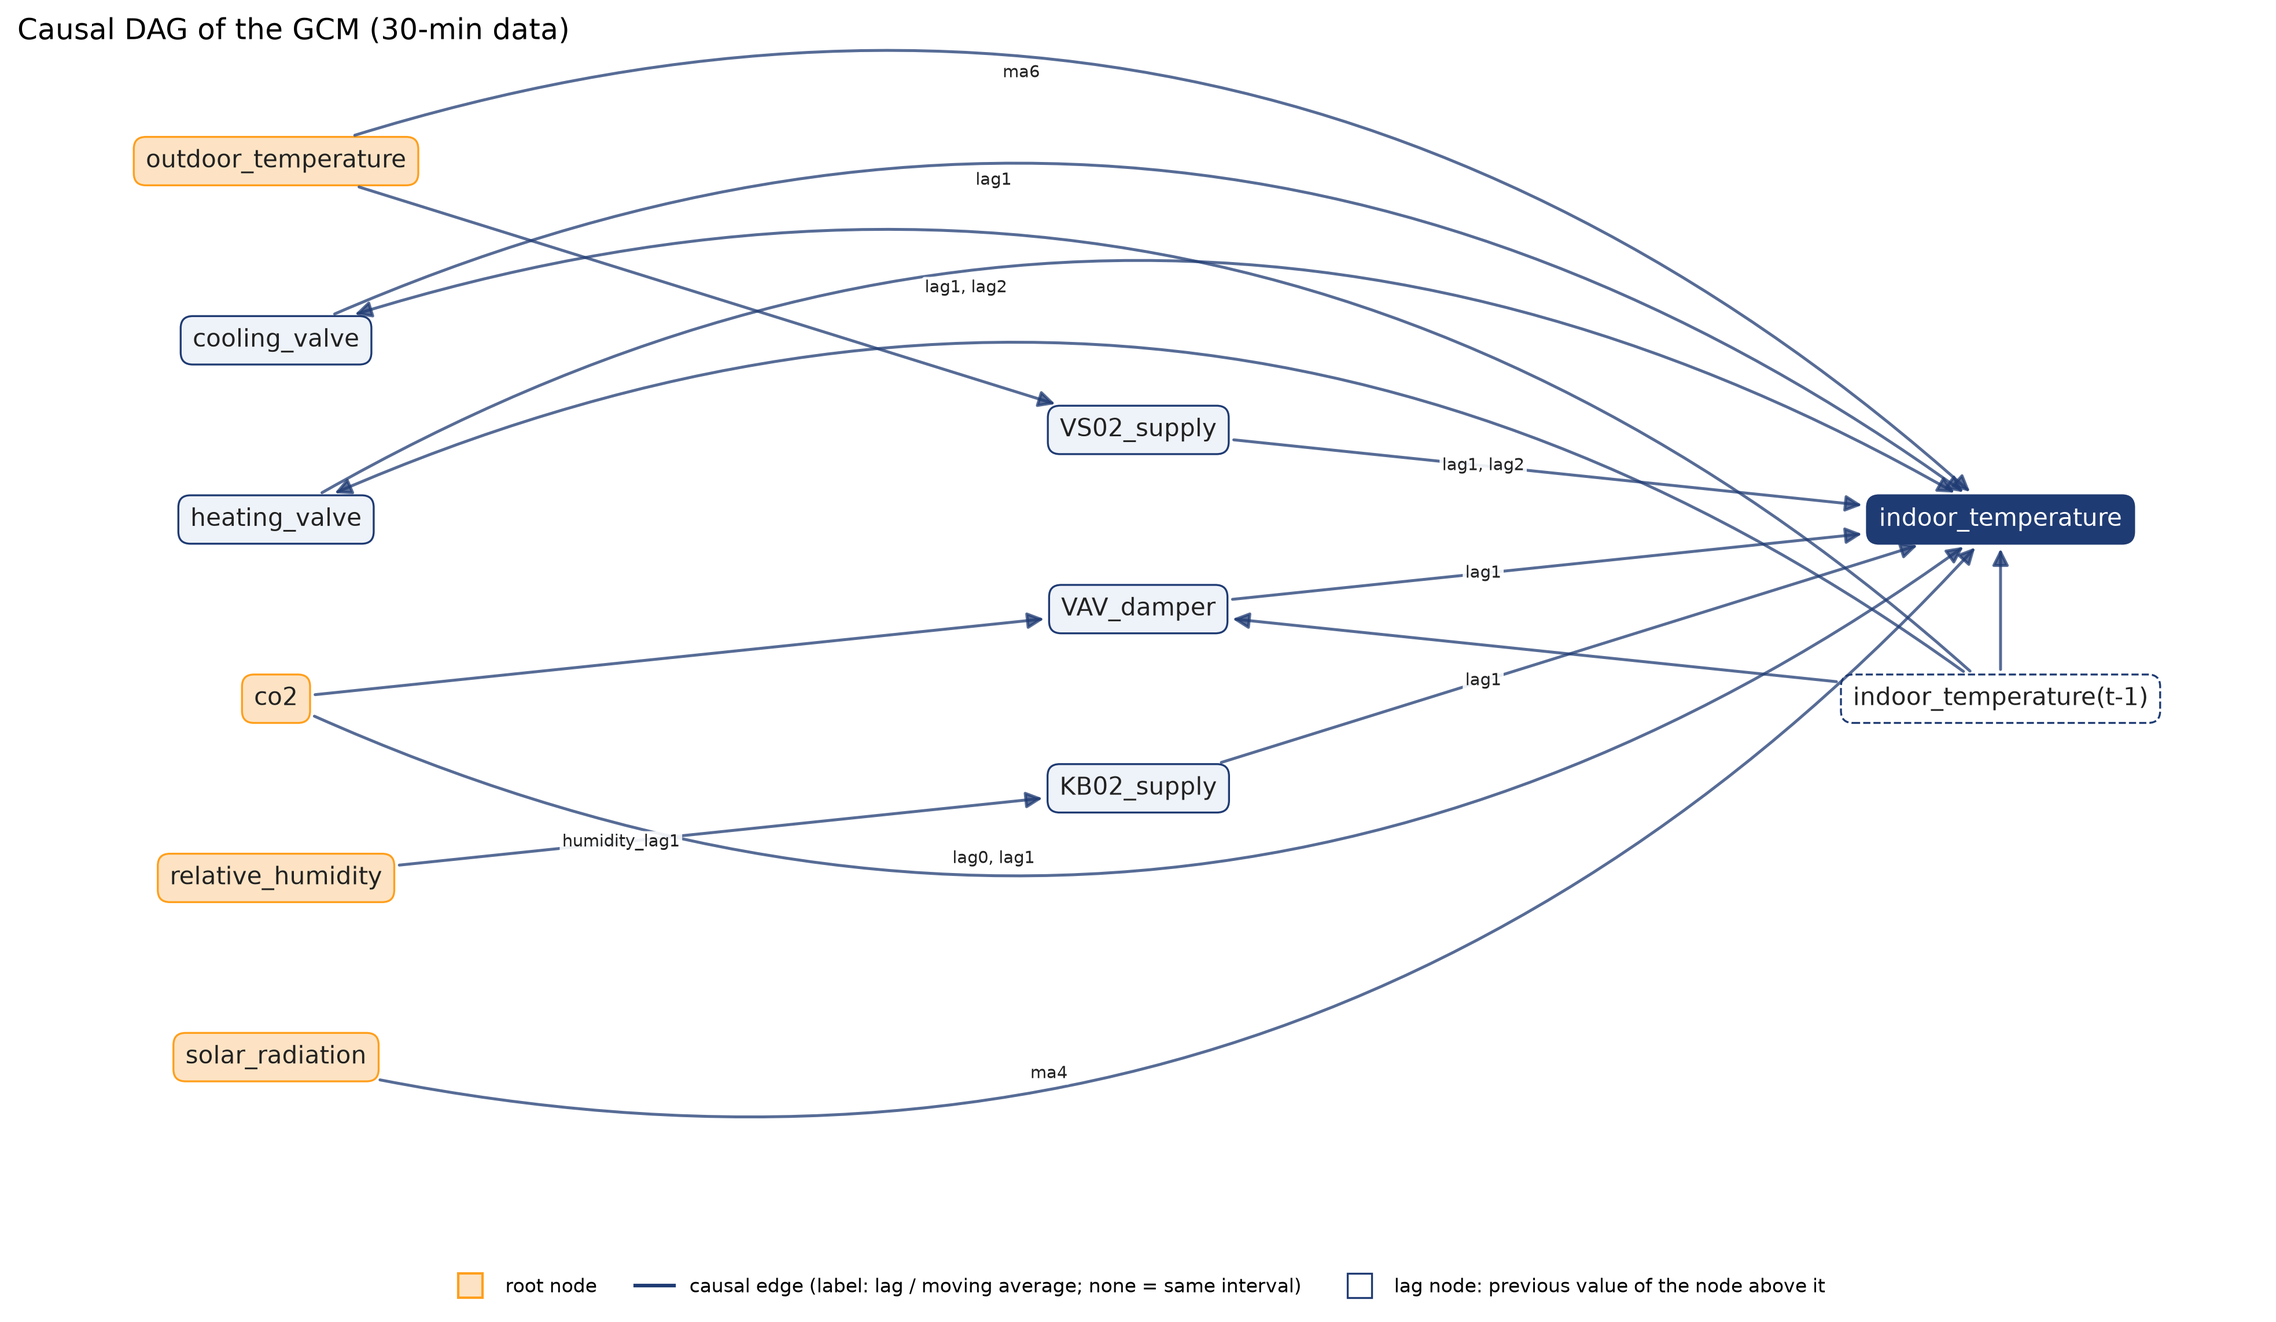
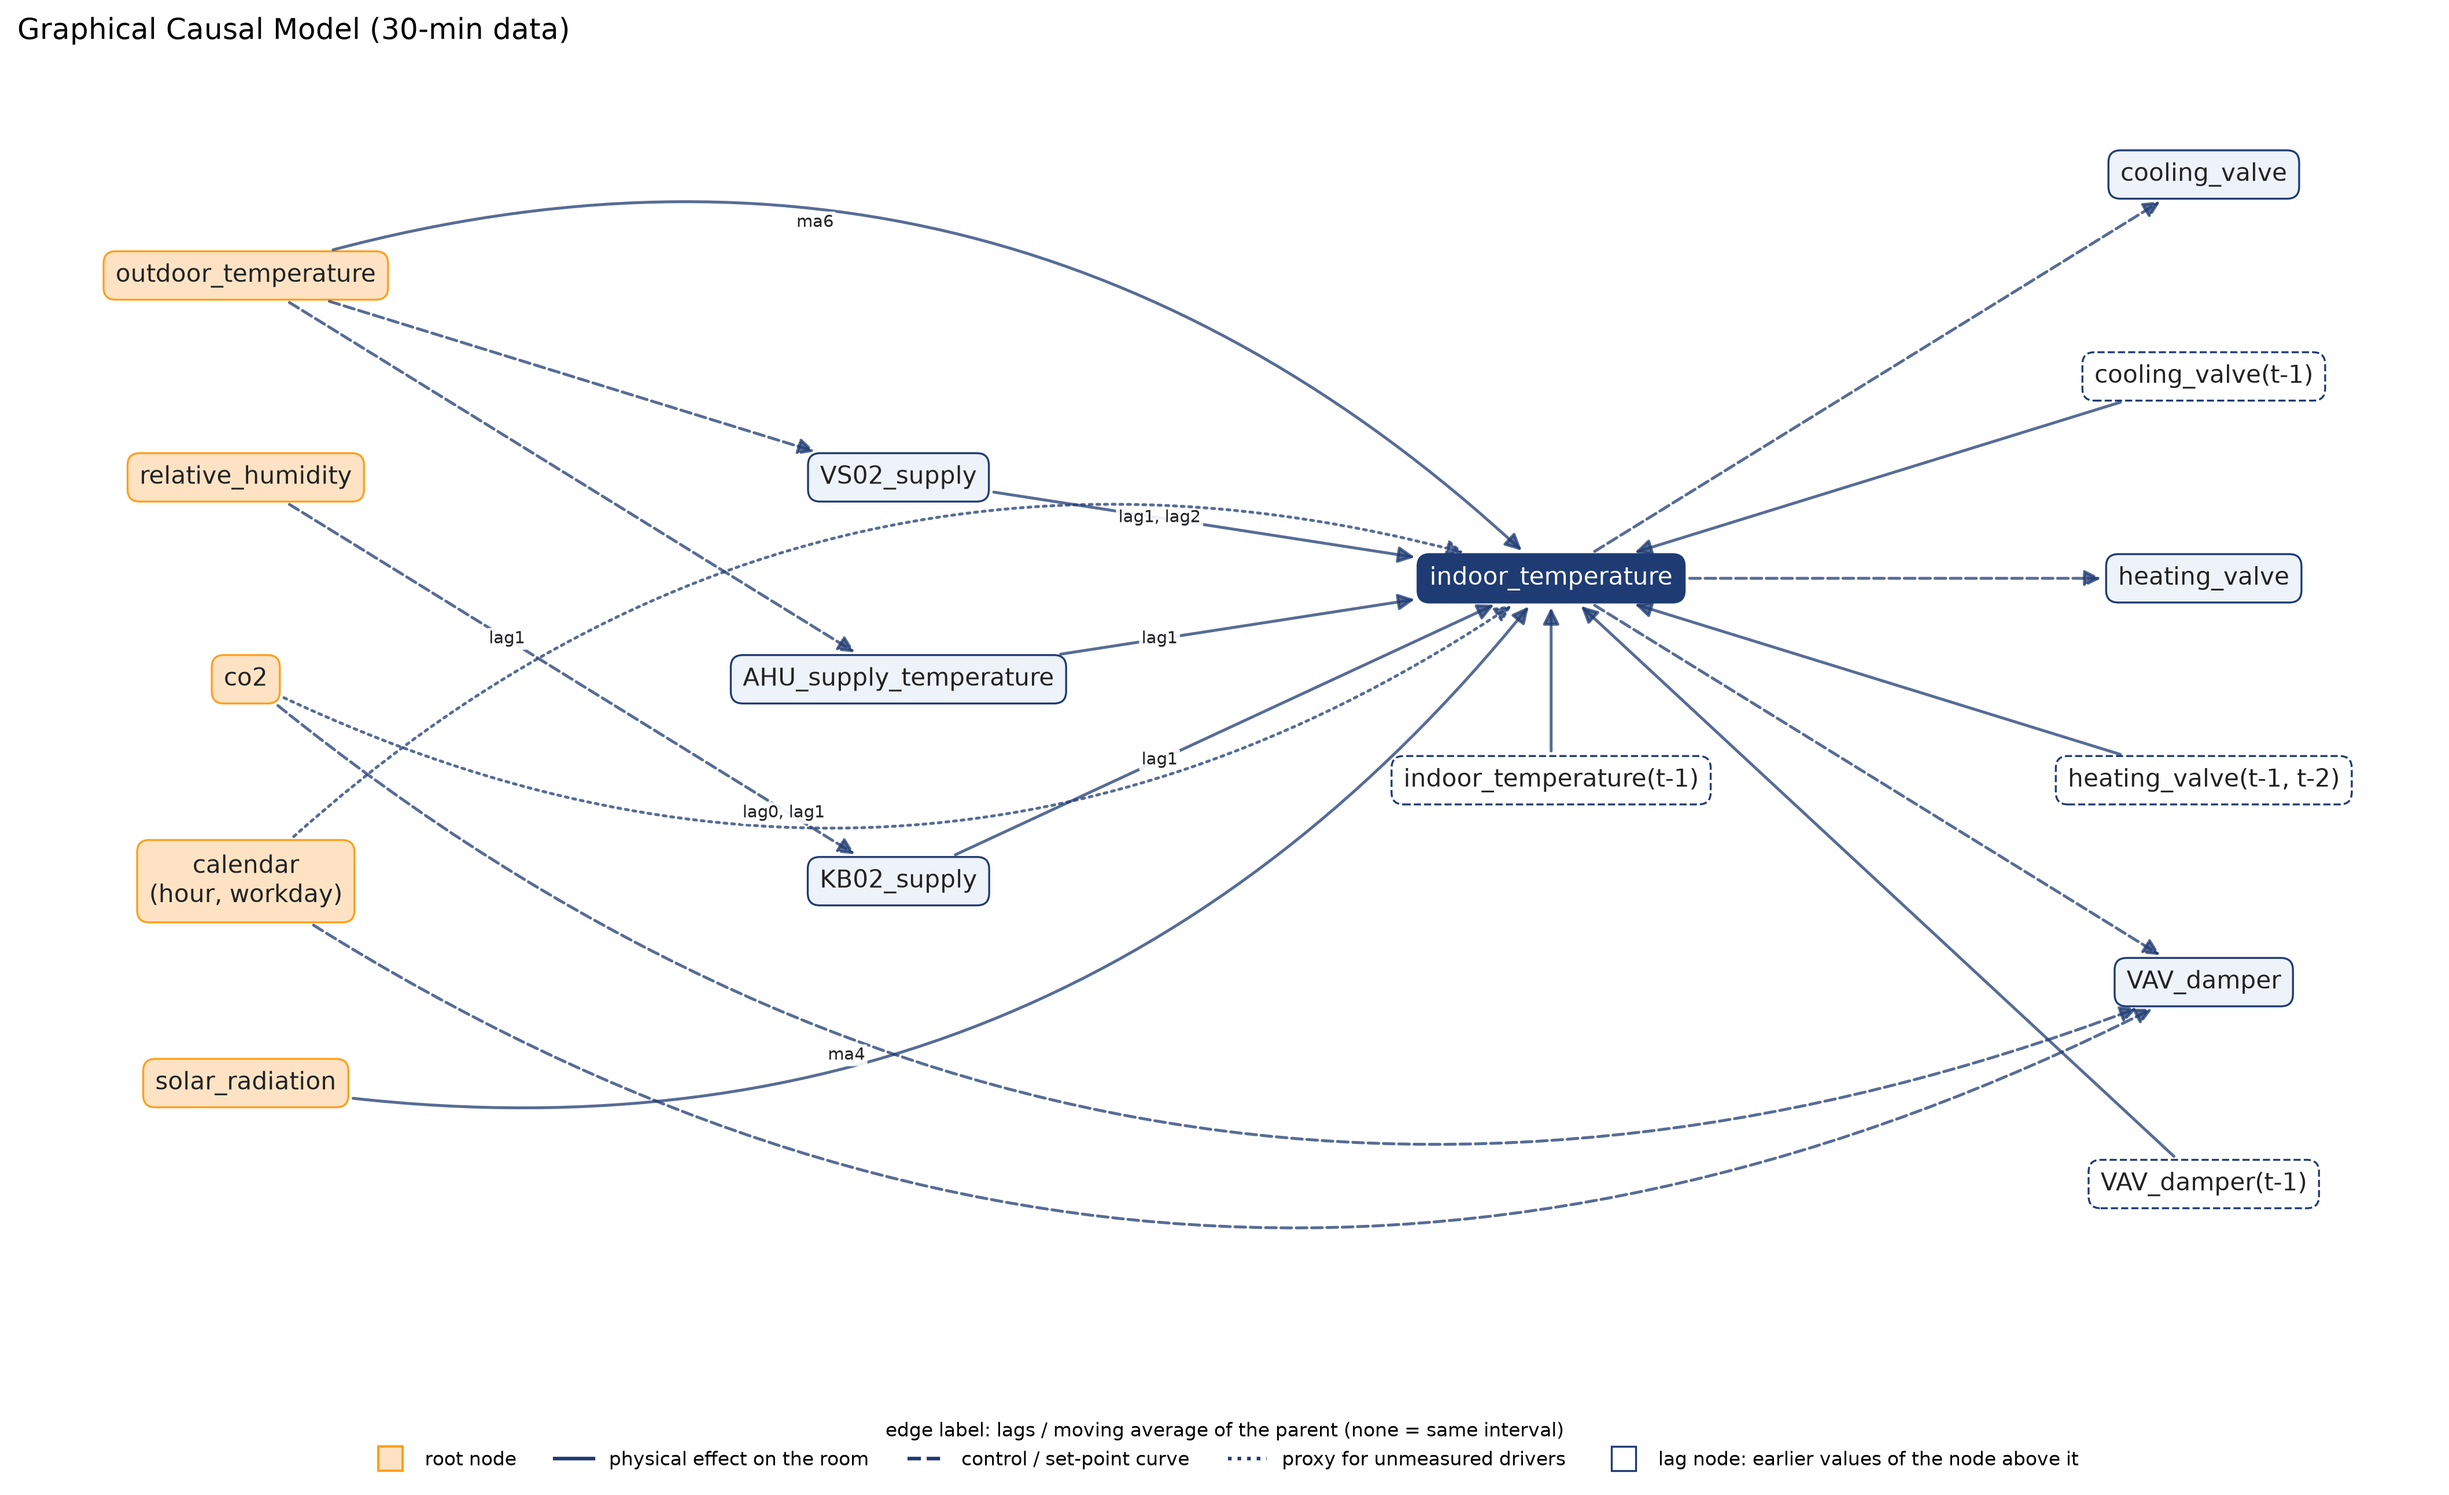
divide heating and cooling

diff --git a/GCM_generation.py b/GCM_generation.py
@@ -16,17 +16,17 @@ CAL_FEATURES = ["hour_sin", "hour_cos", "workday"]
 # parent, child, feature column names
 EDGES = [
     # set-point curves
-    ("outdoor_temperature", "VS02_supply", ["outdoor_temperature"]),        # VS02 heatingc urve
-    ("relative_humidity", "KB02_supply", ["relative_humidity_lag1"]),       # chilled setpoint to avoid condensation
+    ("outdoor_temperature", "VS02_supply", ["outdoor_temperature"]),     # VS02 heating curve
+    ("relative_humidity", "KB02_supply", ["relative_humidity_lag1"]),       # chilled water setpoint to avoid condensation
     ("outdoor_temperature", "AHU_supply_temperature", ["outdoor_temperature"]),  # AHU setpoint curve
 
-    # room controllers react to the room within the same 30-min interval
+    # room controllers react to the room with rather fast response
     (T, "cooling_valve", [T]),
     (T, "heating_valve", [T]),
     (T, "VAV_damper", [T]),
     ("co2", "VAV_damper", ["co2"]),    # demand-controlled ventilation
-    (CAL, "cooling_valve", CAL_FEATURES),   # schedules, night setback
-    (CAL, "heating_valve", CAL_FEATURES),
+    # (CAL, "cooling_valve", CAL_FEATURES),     # schedules, night setback
+    # (CAL, "heating_valve", CAL_FEATURES),
     (CAL, "VAV_damper", CAL_FEATURES),
     # ("setpoint", "cooling_valve", ["setpoint"]),        # the setpoint of roo temeprature
     # ("setpoint", "heating_valve", ["setpoint"]),
@@ -36,7 +36,7 @@ EDGES = [
     # ("heating_valve", "heating_flow", ["heating_valve"]),
 
     # physical effects on the room (delayed)
-    (T, T, [f"{T}_lag1"]),                                                  # thermal inertia
+    (T, T, [f"{T}_lag1"]),                                          # thermal inertia
     ("cooling_valve", T, ["cooling_valve_lag1"]),                           # chilled beam, faster
     ("KB02_supply", T, ["KB02_supply_lag1"]),
     ("heating_valve", T, ["heating_valve_lag1", "heating_valve_lag2"]),     # radiator, slower
@@ -51,23 +51,33 @@ EDGES = [
     (CAL, T, CAL_FEATURES),                                                 # scheduled internal gains
 ]
 
-# Interaction terms of a mechanism: name -> formula over that mechanism's input columns.
-# Emitters only act through the product of opening and temperature difference.
+
+# Components: the variables that act on the room together through one emitter.
+# Their edges into the room are cut together when the strength of the component is quantified.
+COMPONENTS = {
+    "chilled_beam": ["cooling_valve", "KB02_supply", "VAV_damper", "AHU_supply_temperature"],
+    "radiator": ["heating_valve", "VS02_supply"],
+}
+
+# Emitters' joint effects, per component
 INTERACTIONS = {
     T: {
-        "cooling_drive": "cooling_valve_lag1 * (indoor_temperature_lag1 - KB02_supply_lag1)",
-        "heating_drive": ("(heating_valve_lag1 + heating_valve_lag2) / 2"
-                          " * ((VS02_supply_lag1 + VS02_supply_lag2) / 2 - indoor_temperature_lag1)"),
-        "ventilation_drive": "VAV_damper_lag1 * (AHU_supply_temperature_lag1 - indoor_temperature_lag1)",
+        # chilled beam, air side: heat removed by the primary air
+        "chilled_beam_air": "VAV_damper_lag1 * (indoor_temperature_lag1 - AHU_supply_temperature_lag1)",
+        # chilled beam, water side: heat removed by the coil; its capacity grows with the primary air flow
+        "chilled_beam_water": ("cooling_valve_lag1 * VAV_damper_lag1"
+                               " * (indoor_temperature_lag1 - KB02_supply_lag1)"),
+        # radiator: heat supplied
+        "radiator_drive": ("(heating_valve_lag1 + heating_valve_lag2) / 2"
+                           " * ((VS02_supply_lag1 + VS02_supply_lag2) / 2 - indoor_temperature_lag1)"),
     },
 }
 
-# Expected sign of a design-matrix column's effect on its node (+1 / -1), for monotone mechanisms.
-# Columns not listed are unconstrained. Check the controller signs against your control sequences.
+# Monotonic effects
 MONOTONE = {
     T: {
-        f"{T}_lag1": +1, "solar_radiation_ma4": +1, "outdoor_temperature_ma6": +1,
-        "cooling_drive": -1, "heating_drive": +1, "ventilation_drive": +1,
+        "solar_radiation_ma4": +1, "outdoor_temperature_ma6": +1,
+        "chilled_beam_air": -1, "chilled_beam_water": -1, "radiator_drive": +1,
     },
     "cooling_valve": {T: +1},
     "heating_valve": {T: -1},
@@ -84,6 +94,7 @@ EXCLUDED = {
 CONFIG = {
     "target": T,
     "edges": EDGES,
+    "components": COMPONENTS,
     "interactions": INTERACTIONS,
     "monotone": MONOTONE,
     "excluded": EXCLUDED,
@@ -91,11 +102,11 @@ CONFIG = {
     "proxy_nodes": ["co2", CAL],          # edges from these into the target stand for unmeasured drivers
     "calendar_node": CAL,
     "calendar_features": CAL_FEATURES,
-    "display_names": {"co2": "co2\n(occupancy proxy)", CAL: "calendar\n(hour, workday)"},
+    "display_names": {CAL: "calendar\n(hour, workday)"},
     "freq": "30min",
     "country": "SE",                      # public holidays for 'workday'
     "regime_valves": {"heating": "heating_valve", "cooling": "cooling_valve"},
-    "valve_active_threshold": 5.0,        # daily mean opening above which an emitter counts as active (% open; use 0.05 for 0-1 signals)
+    # "valve_active_threshold": 5.0,        # daily mean opening above which an emitter counts as active (% open; use 0.05 for 0-1 signals)
     "figure_name": "causal_dag.png",
     "make_plots": True,
 }
@@ -128,14 +139,6 @@ def _lag_node_name(var, lags):
 
 # causal graph
 def build_gcm(config=None):
-    """
-    Causal DAG of the GCM as a networkx DiGraph, from the edge list in CONFIG.
-    Node attributes: 'root' (no parents), 'layer' (longest path from a root), 'label' (display name),
-    'interactions' and 'monotone' (mechanism settings, see design_matrix), 'lag_of' (lag nodes only),
-    and 'inputs' (kept empty: the time inputs are now the calendar node).
-    Edge attributes: 'features' (the parent's columns used by the child) and 'kind':
-    'physical' (into the target), 'proxy' (into the target from a proxy node) or 'control'.
-    """
     cfg = _merge_config(config)
     tgt, lag_sources = cfg["target"], set(cfg["lag_node_sources"])
 
@@ -177,12 +180,17 @@ def build_gcm(config=None):
                 G.add_node(lag, root=True, inputs=[], lag_of=parent, layer=G.nodes[parent]["layer"], label=lag)
             G.add_edge(lag, child, features=list(feats))
 
-    # edge kinds
+    # edge kinds and components
+    component_of = {var: comp for comp, members in cfg["components"].items() for var in members}
+    unknown = set(component_of) - {G.nodes[n].get("lag_of", n) for n in G}
+    if unknown:
+        raise ValueError(f"components list {sorted(unknown)}, which are not variables of the graph")
     for u, v in G.edges:
         src = G.nodes[u].get("lag_of", u)
+        G.edges[u, v]["component"] = component_of.get(src)
         G.edges[u, v]["kind"] = ("control" if v != tgt else "proxy" if src in cfg["proxy_nodes"] else "physical")
 
-    # mechanism settings, checked against each node's inputs
+    # mechanism settings
     for n in G:
         if G.in_degree(n) == 0:
             continue
@@ -207,15 +215,22 @@ def mechanism_inputs(G, node):
     return list(dict.fromkeys(cols))
 
 
-def edge_bundles(G, node):
-    """Parent -> feature columns, i.e. what is permuted together when that edge is cut."""
-    return {u: list(f) for u, _, f in G.in_edges(node, data="features")}
+def edge_bundles(G, node, by_component=True):
+    """
+    Feature columns to permute together when an edge is cut. With by_component, the edges of one
+    component (chilled beam, radiator) form a single bundle keyed by the component name; the other
+    edges, and all edges with by_component=False, are keyed by the parent.
+    """
+    bundles = {}
+    for u, _, d in G.in_edges(node, data=True):
+        key = d["component"] if by_component and d["component"] else u
+        bundles.setdefault(key, []).extend(f for f in d["features"] if f not in bundles[key])
+    return bundles
 
 
 def design_matrix(G, node, inputs):
     """
-    Mechanism inputs plus the node's interaction terms, computed from 'inputs' (a frame holding the
-    columns of mechanism_inputs). Call it again after permuting an edge bundle, so interactions follow.
+    Mechanism inputs plus the node's interaction terms, computed from 'inputs'
     """
     X = inputs[mechanism_inputs(G, node)].copy()
     for name, expr in G.nodes[node]["interactions"].items():
@@ -224,7 +239,7 @@ def design_matrix(G, node, inputs):
 
 
 def monotone_constraints(G, node, columns):
-    """Signs for the design-matrix columns, e.g. for HistGradientBoostingRegressor(monotonic_cst=...)."""
+    """Signs for the design-matrix columns."""
     return [G.nodes[node]["monotone"].get(c, 0) for c in columns]
 
 
@@ -406,7 +421,8 @@ def run_gcm(config=None):
     for n in nx.topological_sort(G):
         if n in lag_of:
             continue
-        ps = [f"{p} ({', '.join(d['features'])}) [{d['kind']}]" for p, _, d in G.in_edges(n, data=True)]
+        ps = [f"{p} ({', '.join(d['features'])}) [{d['component'] or d['kind']}]"
+              for p, _, d in G.in_edges(n, data=True)]
         print(f"  {n:22s} <- {', '.join(ps) or '-'}")
         for name, expr in G.nodes[n].get("interactions", {}).items():
             print(f"  {'':22s}    + {name} = {expr}")
